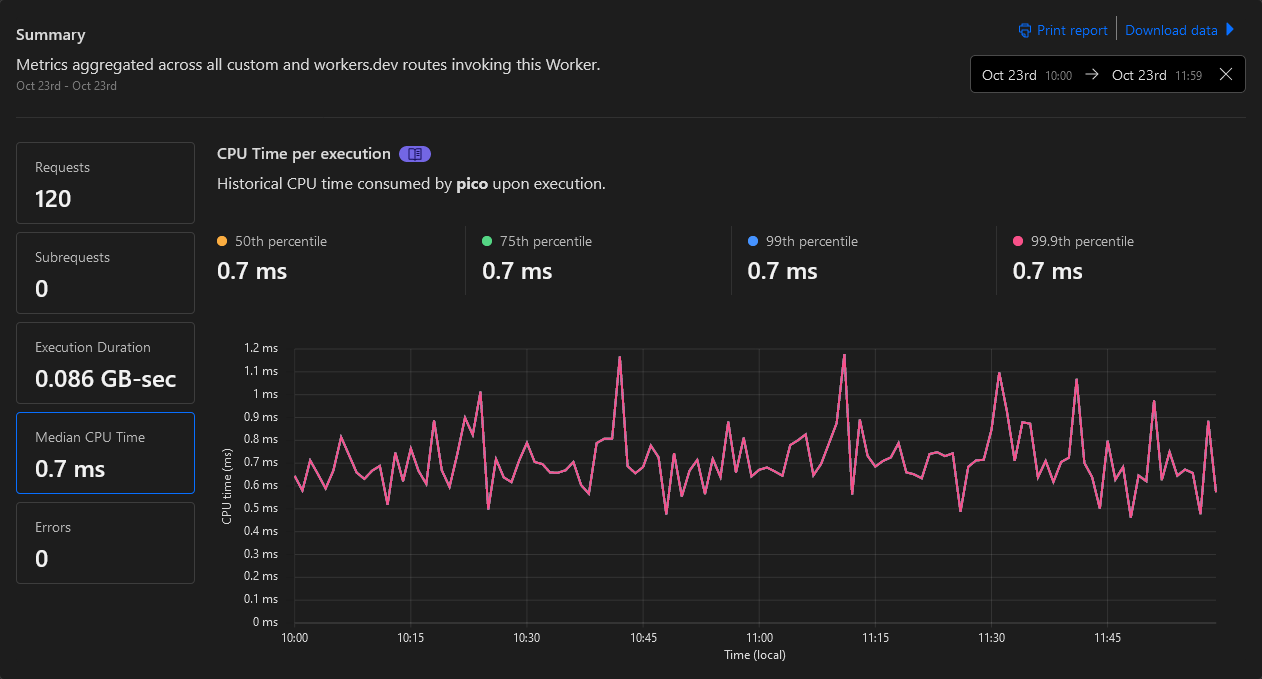
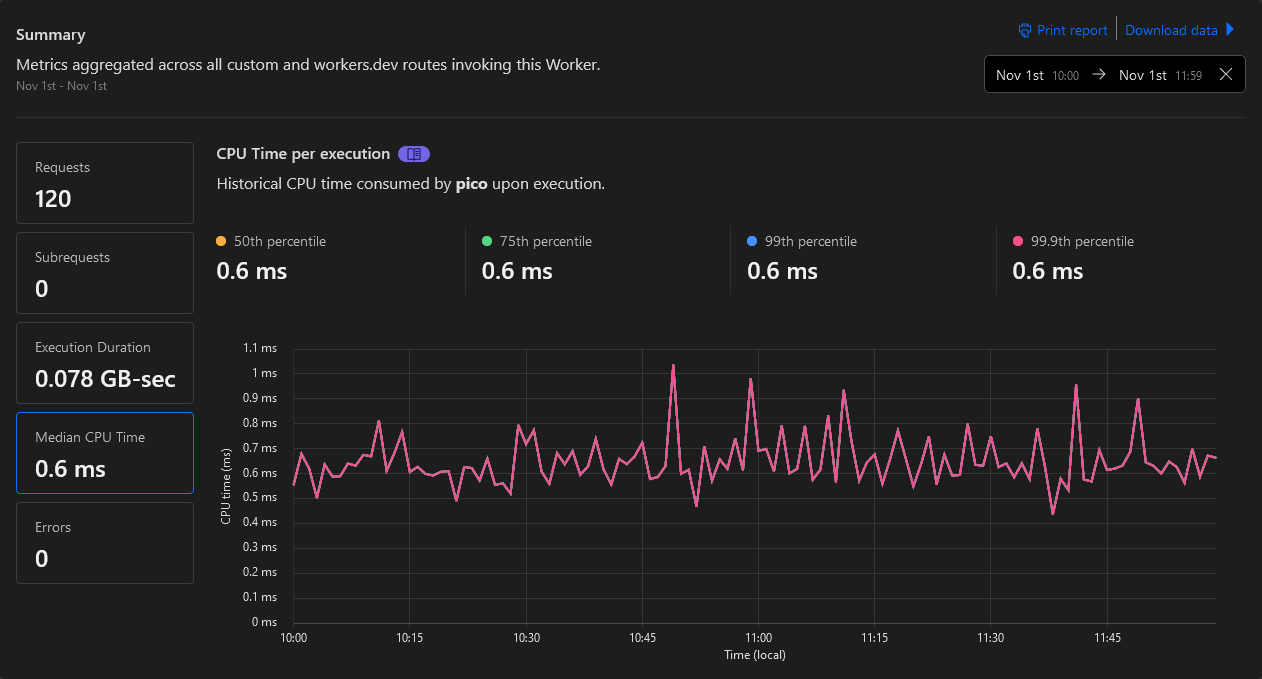
v0.6.0 New "Standard usage model"

diff --git a/README.md b/README.md
@@ -2,21 +2,28 @@
 
 Metric studies on Cloudflare Workers & Pages
 
+## CHANGELOG
+
+- v0.6.0 2023-11-01
+  - New "Standard usage model" + CPU limit
+  - Minify on deploy
+  - wrangler 3.15.0
+
 ## Workers
 
-- Native (Total Upload: 0.53 KiB / gzip: 0.32 KiB) \
+- Native (Total Upload: 0.36 KiB / gzip: 0.26 KiB ~~0.53 KiB / gzip: 0.32 KiB~~) \
   _No routing and no helper, but fastest_
   ![worker native](images/worker-native.png)
 
-- [Pico](https://github.com/yusukebe/pico) v0.3.1 (Total Upload: 0.97 KiB / gzip: 0.55 KiB) \
+- [Pico](https://github.com/yusukebe/pico) v0.3.1 (Total Upload: 0.63 KiB / gzip: 0.42 KiB ~~0.97 KiB / gzip: 0.55 KiB~~) \
   _Light router but no helpers, fast anyway_
   ![worker pico](images/worker-pico.png)
 
-- [itty-router](https://github.com/kwhitley/itty-router) v4.0.23 (Total Upload: 2.10 KiB / gzip: 1.08 KiB) \
+- [itty-router](https://github.com/kwhitley/itty-router) v4.0.23 (Total Upload: 1.46 KiB / gzip: 0.89 KiB ~~2.10 KiB / gzip: 1.08 KiB~~) \
   _Famous router with its helpers, fast_
   ![worker itty-router](images/worker-itty.png)
 
-- [Hono/tiny](https://github.com/honojs/hono) v3.8.3 (Total Upload: 28.33 KiB / gzip: 7.18 KiB) \
+- [Hono/tiny](https://github.com/honojs/hono) v3.9.1 (Total Upload: 13.52 KiB / gzip: 5.14 KiB ~~28.33 KiB / gzip: 7.18 KiB~~) \
   _Real fast router but slightly too heavy for a 'free plan' 10ms_
   ![worker hono](images/worker-hono.png)
 
